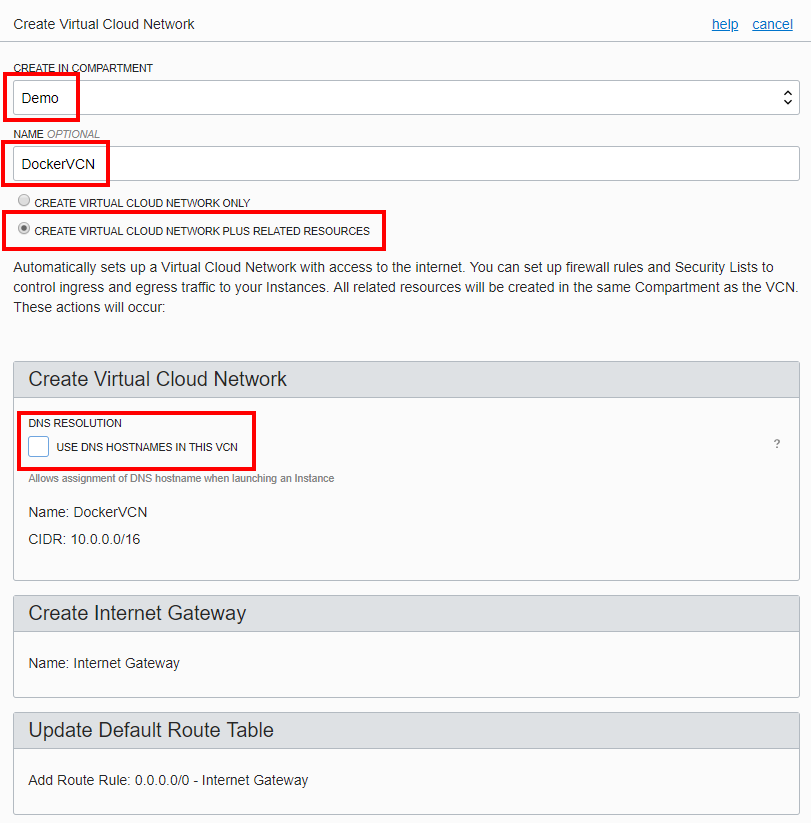
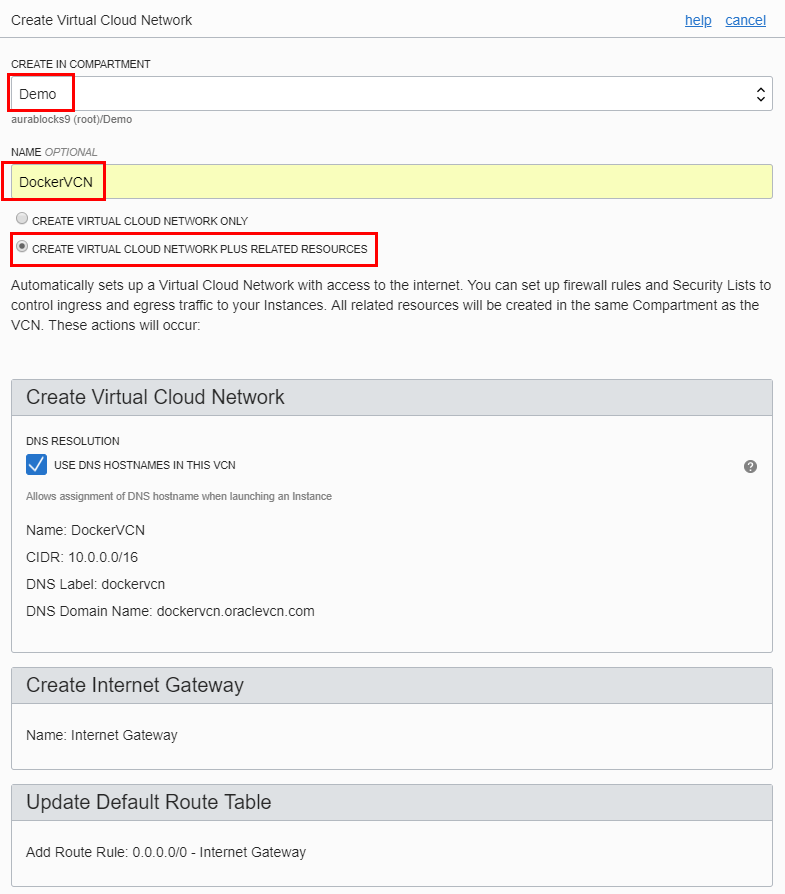
updates to Lab 200

diff --git a/lab-guides/LabGuide200.md b/lab-guides/LabGuide200.md
@@ -4,7 +4,7 @@
   ![](images/200/Title.png)
 
 ## Introduction
-In this lab you will use your Oracle Cloud Trial Account, create ssh key pairs, login into your Trial, create a VCN (Virtual Compute Network) and Compartment, create a new compute instance and finally install docker into the instance.
+In this lab you will use your Oracle Cloud Trial Account, create ssh key pairs, login into your Trial, create a VCN (Virtual Compute Network) and Compartment, create a new compute instance and install docker / git into the instance.
 
 ***To log issues***, click here to go to the [github oracle](https://github.com/oracle/learning-library/issues/new) repository issue submission form.
 
@@ -13,7 +13,10 @@ In this lab you will use your Oracle Cloud Trial Account, create ssh key pairs, 
 - Create the baseline infrastructure to support a Compute instance
 - Create a SSH key pair
 - SSH into the instance: Install Docker and GIT
-- Create a Docker image and deploy the AlphaOffice application
+- Create a baseline Docker image and then dDeploy the AlphaOffice application
+- Customize the container to connect to your ATP DB and save a new image
+- Run a Docker container based off of your new image
+
 
 ## Required Artifacts
 
@@ -99,8 +102,6 @@ All the availability domains in a region are connected to each other by a low la
 
 - Fill in the follow values as highlighted below:
 
-    **NOTE:** Make sure to de-select the "USE DNS HOSTNAMES IN THIS VCN" checkbox)
-
     ![](images/200/12.PNG)
 
     ![](images/200/13.PNG)
@@ -137,23 +138,26 @@ For the purposes of the upcoming Docker deployments we need to add five Ingress 
 
     ![](images/200/19.PNG)
 
-    ![](images/200/Linux050-c8ef545e.png)
+    ![](images/200/19-2.png)
 
 - **Enter the following**
 
-**NOTE:** Leave all other values at default
+  **NOTE:** Leave all other values at default
 
-```
-Source CIDR: 0.0.0.0/0
-Destination Port Range: 8080
-```
+  ```
+  Source CIDR: 0.0.0.0/0
+  Destination Port Range: 8080
+  ```
+
+  ![](images/200/19-4.png)
+
 - Click the **Save Security List Rules** button
 
     ![](images/200/22.PNG)
 
 - Your Ingress Rules should look like:
 
-    ![](images/200/Linux050-a84ef9f4.png)
+    ![](images/200/20.png)
 
 ### **STEP 6**: Create SSH Key Pair (Linux or Mac client)
 
